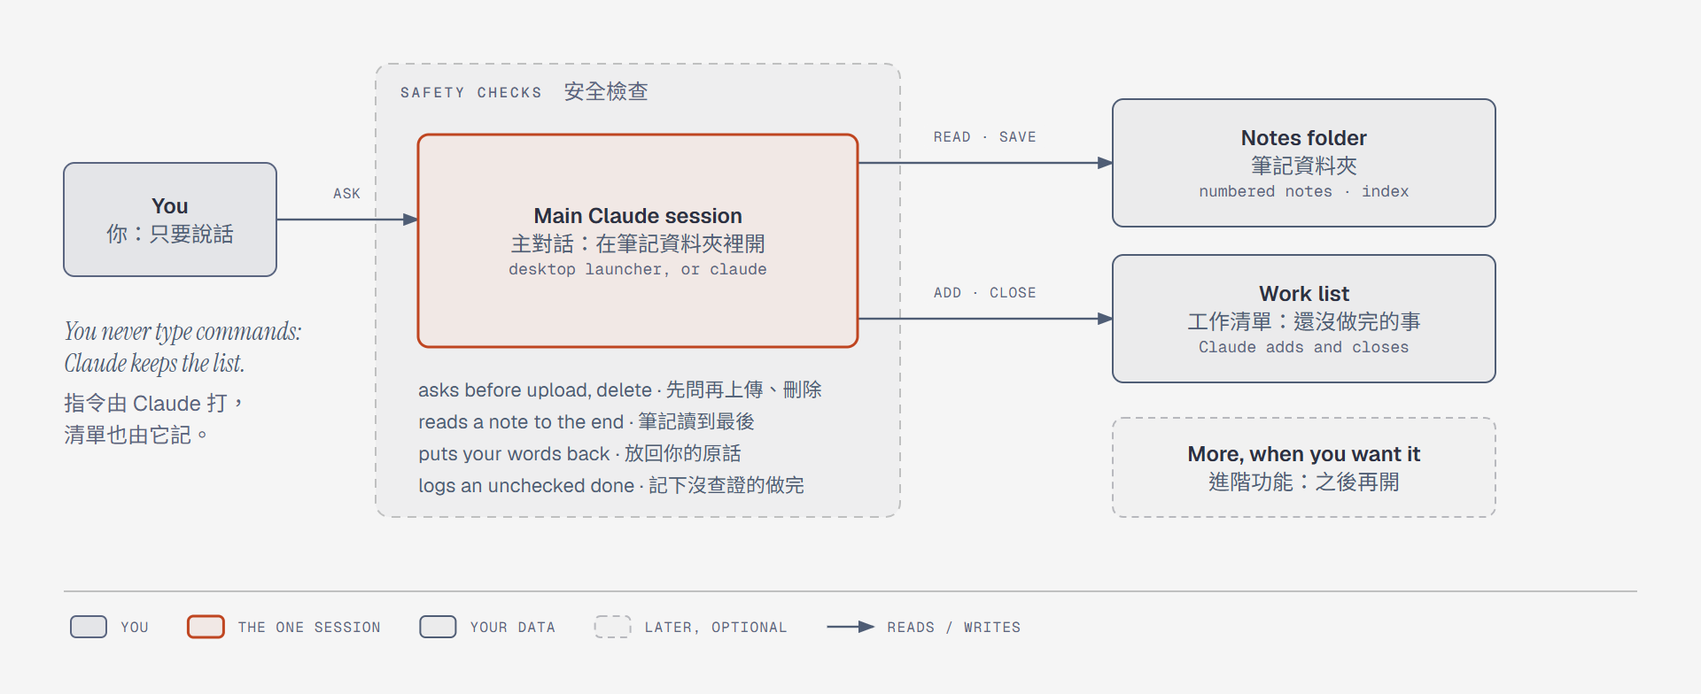
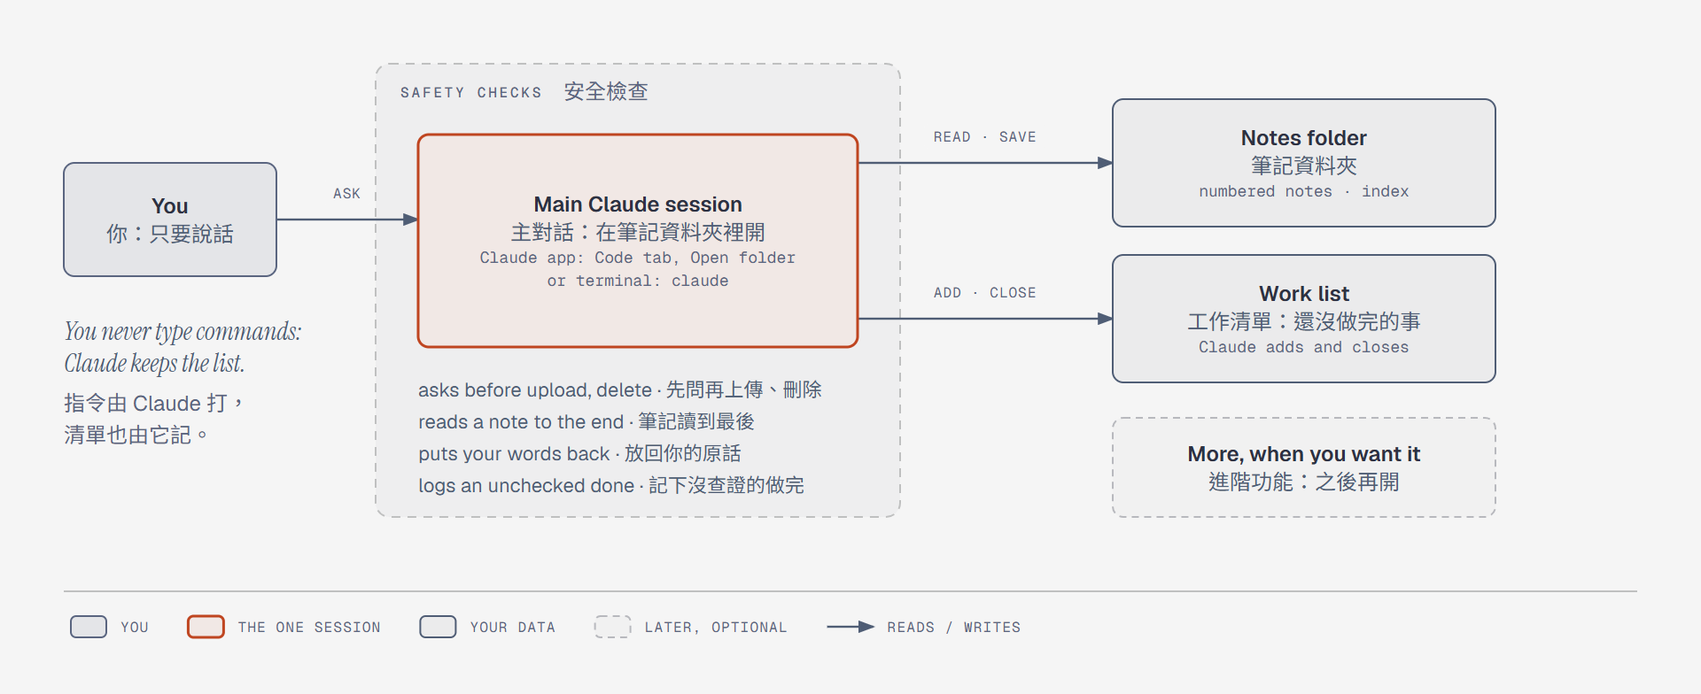
0.2.3: desktop App users open the notes folder in the App; shortcut only for terminal users

Changed region(s): [[0.2812, 0.2755, 0.4688, 0.4286]]

diff --git a/scripts/selftest.py b/scripts/selftest.py
@@ -585,6 +585,32 @@ def main():
             r = g2("commit", "-q", "-m", "broken link")
             check("template vault: a broken link is refused by pre-commit", r.returncode != 0 and "broken-wikilink" in (r.stdout + r.stderr), r.stdout + r.stderr)
 
+        # ---- how the user opens the notes folder: App users get steps, no shortcut file ----
+        for lang, setup, readme in (("en", KIT / "docs" / "SETUP.md", KIT / "README.md"),
+                                    ("zh", KIT / "docs" / "zh-TW" / "SETUP.md", KIT / "README.zh-TW.md")):
+            st = setup.read_text(encoding="utf-8")
+            a = st.find("### `SURFACE` = app")
+            b = st.find("### `SURFACE` = terminal")
+            app = st[a:b] if 0 <= a < b else ""
+            term = st[b:st.find("## Step 5b" if lang == "en" else "## 步驟 5b")] if b >= 0 else ""
+            check("setup %s: surface is detected from CLAUDE_CODE_ENTRYPOINT, user answer wins" % lang,
+                  "CLAUDE_CODE_ENTRYPOINT" in st and "claude-desktop" in st and "`cli`" in st)
+            check("setup %s: App branch gives the Code tab / Open folder steps and makes no shortcut file" % lang,
+                  "**Code**" in app and "**Open folder…**" in app and "**Local**" in app
+                  and not any(w in app for w in ("chmod", "@echo off", "#!/bin/sh")))
+            check("setup %s: terminal branch keeps the shortcut and the plain cd + claude way" % lang,
+                  "@echo off" in term and "#!/bin/sh" in term and "claude --continue" in term and "cd \"<VAULT>\"" in term)
+            check("setup %s: Step 6 and 7 do not assume a shortcut or claude -p for App users" % lang,
+                  "**+ New**" in st and st.count("**Open folder…**") >= 4)
+            rd = readme.read_text(encoding="utf-8")
+            mm = rd[rd.find("```mermaid"):rd.find("```", rd.find("```mermaid") + 10)]
+            check("readme %s: both ways in (App steps + terminal), diagram names both" % lang,
+                  "**Open folder…**" in rd and "**Code**" in rd and "`claude`" in rd and ("Open folder" if lang == "en" else "選筆記資料夾") in mm and "claude" in mm
+                  and "desktop launcher" not in mm)
+        svg = (KIT / "docs" / "diagrams" / "00-basic.svg").read_text(encoding="utf-8")
+        check("diagram 00-basic: names the App way and the terminal way, no desktop launcher",
+              "Open folder" in svg and "or terminal: claude" in svg and "desktop launcher" not in svg)
+
         # ---- launcher wrapper ----
         sh = shutil.which("sh")
         if sh:

diff --git a/docs/SETUP.md b/docs/SETUP.md
@@ -12,6 +12,7 @@ Words used below:
 - `KIT` - the folder that contains `.claude-plugin/plugin.json` with `"name": "second-brain-kit"`. Installed as a plugin it is `${CLAUDE_PLUGIN_ROOT}` (set inside plugin hooks and commands; in this session search the plugin cache under `~/.claude/plugins` for that file). Cloned by hand it is the clone folder.
 - `SBK_HOME` - `~/.claude/sbk` (the work list, logs, settings of the kit).
 - `VAULT` - the notes folder the user chooses (default `~/second-brain`).
+- `SURFACE` - how the user opens Claude: `app` (the Claude desktop app, its **Code** tab) or `terminal` (the `claude` command in a terminal window). Step 0.2 decides it; Steps 5, 6 and 7 differ by it.
 - Paths: use forward slashes or quoted paths on Windows. Python: `python3`, `python` or `py`, whichever runs Python 3.
 
 Rules while you work:
@@ -27,21 +28,22 @@ Rules while you work:
 
 The user may have pasted only the sentence from the README ("Install second-brain-kit from https://github.com/0Smallcat0/second-brain-kit and set me up by its docs/SETUP.md ..."). That sentence is their request to install, so do not ask again.
 1. Run `claude plugin marketplace add 0Smallcat0/second-brain-kit`, then `claude plugin install second-brain-kit@second-brain-kit` (the command-line twins of `/plugin marketplace add ...` and `/plugin install ...`).
-2. If the `claude` command cannot be run from here or the install fails: clone `https://github.com/0Smallcat0/second-brain-kit` into a new folder (for example `~/second-brain-kit-src`) and use it as `KIT`. Hooks then use Step 4's manual route.
+2. If the `claude` command cannot be run from here (an App user may not have it: the desktop app does not need it) or the install fails: clone `https://github.com/0Smallcat0/second-brain-kit` into a new folder (for example `~/second-brain-kit-src`) and use it as `KIT`. Hooks then use Step 4's manual route.
 3. Find `KIT` (see Words) and read this file from there before going on.
 
 **Check:** `KIT/.claude-plugin/plugin.json` exists and says `second-brain-kit`; `claude plugin list` shows second-brain-kit (clone route: write down that you used it).
 
 ## Step 0 - Check the computer, ask four things, suggest the parts
 
-1. Run `python --version` (or `python3` / `py`), `git --version`, `claude --version`. Python 3.8+ and git are needed.
+1. Run `python --version` (or `python3` / `py`) and `git --version`; Python 3.8+ and git are needed. Terminal users also need `claude --version` to work; App users do not (the desktop app has Claude Code built in, and has no `claude -p`).
    If one is missing, offer to install it ("OK if I install Python?") and after a yes do it: Windows `winget install -e --id Python.Python.3.12` / `winget install -e --id Git.Git`; macOS `xcode-select --install` (gives git and python3) or `brew install python git` if Homebrew exists; Linux the package manager. If it needs an administrator password or a click in an installer window, that part is **needs you**: tell the user exactly which window or command, then continue.
-2. Ask these four in **one message**, in plain words, and wait:
+2. Find `SURFACE` first. Read the environment variable `CLAUDE_CODE_ENTRYPOINT` (`echo $CLAUDE_CODE_ENTRYPOINT`; PowerShell `$env:CLAUDE_CODE_ENTRYPOINT`): `claude-desktop` or `claude-desktop-3p` -> `app`; `cli` -> `terminal`. These are the values Anthropic's monitoring page lists for how a session was launched; the variable itself is not documented, so treat it as a hint. Any other value (`claude-vscode`, `sdk-cli`, ...) or none: you cannot tell, so add to question 1 below "Do you open Claude through the Claude app (the Code tab) or in a terminal window?" and use the answer. The user's own answer always wins over the variable.
+   Then ask these four in **one message**, in plain words, and wait:
    1. "Where should your notes live? I suggest `~/second-brain` (say OK to accept)."
    2. "Which language should I use for notes and replies?"
    3. "Where do you get stuck most when using Claude? For example: several things at once get mixed up, you often forget deadlines, you keep having to explain the background again, or it's all fine? (If you also have an account for another AI such as ChatGPT or Gemini, mention it; if not, skip it - one Claude account is enough.)"
    4. "May I look at your Claude history on this computer to help decide? At install I only count how many project folders were used in the last two weeks and whether a conversation got so long it was summarised twice or more; after that, about once a week, I only look at conversations in your notes folder and count how often you asked me to remind you or said things got mixed up. It is counted on this computer only, nothing is uploaded or changed. 'No' is completely fine."
-   Do not ask anything else, here or later in the setup. The only things that do not count as extra questions: asking permission for a change on their system, and, when you suggest topic sessions in point 4, which things to split. No profile questions, no tool-by-tool list, no "Basic or Full?".
+   Do not ask anything else, here or later in the setup. The only things that do not count as extra questions: the app-or-terminal question when the variable did not tell you, asking permission for a change on their system, and, when you suggest topic sessions in point 4, which things to split. No profile questions, no tool-by-tool list, no "Basic or Full?".
 3. Create `SBK_HOME`. If `SBK_HOME/config.json` does not exist, copy `KIT/templates/config.json` there and fill `vault` (absolute path), `language`, `uses` (their words for question 3), `other_tools` (only tools they said they **have an account** for; empty if none), `read_history` (question 4: yes `true`, no `false`). If it exists (a repair or second run), keep every value it has and only add missing keys from the template.
 4. **Suggest the parts one by one; the user confirms.**
    - Question 4 was yes: run `python KIT/scripts/level_check.py --install`. It only counts, on this computer: project folders in `~/.claude/projects` used in the last 14 days, and whether one conversation was summarised (compacted) two or more times. It reads no conversation content and changes nothing. If the output says `"partial": true`, the count stopped after 30 seconds: use what it found.
@@ -147,9 +149,24 @@ Then run `python KIT/scripts/selftest.py`.
 **Check:** `selftest.py` prints `0 failed`; the modes printed in Step 0's check are the Basic set (or the user's earlier modes on a repair); this call prints a line containing `"permissionDecision": "ask"`:
 `echo '{"tool_name":"Bash","tool_input":{"command":"git push"},"cwd":"VAULT"}' | python KIT/hooks/vault_guard.py` (put the real path in place of `VAULT`).
 
-## Step 5 - A launcher for the main session
+## Step 5 - How the user opens the main session
 
-The main session is Claude Code started inside `VAULT`; there it reads `VAULT/CLAUDE.md`, which loads `AGENTS.md`. Make a double-click launcher named in the user's language (for example "Second brain"). It is a new file; if one with that name exists, ask before replacing it.
+The main session is Claude Code started inside `VAULT`; there it reads `VAULT/CLAUDE.md`, which loads `AGENTS.md` (the desktop app and the terminal read the same files). What you do depends on `SURFACE`; never assume a desktop shortcut.
+
+### `SURFACE` = app: no shortcut file
+
+Make no `.cmd`, `.command` or `.sh` file. Tell the user these steps in their language, with the app's own button names (from Anthropic's desktop quickstart and desktop pages), and put them in `VAULT/README.md` in Step 7:
+1. Open Claude (macOS: Applications folder; Windows: Start menu; Linux: application launcher) and click the **Code** tab at the top of the sidebar. If the tabs show only icons, hover over one to see its name.
+2. In the row under the prompt box, click the first control (the environment selector) and pick the top entry in the **Local** group. Then click the project folder control next to it, choose **Open folder…**, and pick `<VAULT>` (write the full path).
+3. Type to Claude as in a chat. Next time, click that session in the sidebar to carry on; **+ New** in the sidebar starts a fresh one, and you pick the folder again the same way. Clicking the session's title in the title bar renames it (for example "Second brain") so it is easy to find.
+- If a new session shows the environment above the prompt box instead of under it, the app has the earlier layout: choose the folder above the prompt box, or update the app (macOS **Claude > Check for Updates…**, Windows **Help > Check for Updates…**).
+- The docs describe no pin or "recent folders" feature, so do not promise one; the session list in the sidebar is the way back.
+
+**Check:** `VAULT/CLAUDE.md` contains `@AGENTS.md` and `VAULT/AGENTS.md` exists (those are what the app loads on opening the folder). Opening the folder in the app is **not verified** until the user does it in Step 7.
+
+### `SURFACE` = terminal: a shortcut, or two plain commands
+
+Make a double-click launcher named in the user's language (for example "Second brain"). It is a new file; if one with that name exists, ask before replacing it.
 - **Windows:** `<Desktop>\Second brain.cmd` (find the real Desktop with `powershell -NoProfile -Command "[Environment]::GetFolderPath('Desktop')"`; it may be inside OneDrive), saved as UTF-8 without BOM:
   ```
   @echo off
@@ -164,7 +181,7 @@ The main session is Claude Code started inside `VAULT`; there it reads `VAULT/CL
   exec claude
   ```
 - **Linux:** the same script as `~/Desktop/second-brain.sh` (or `~/second-brain.sh` if there is no Desktop folder), `chmod +x`.
-Also tell the user the plain way: open a terminal, `cd` into the notes folder, type `claude`; `claude --continue` goes back to the last conversation there.
+Also tell the user the plain way that needs no shortcut: open a terminal, `cd "<VAULT>"`, type `claude`; `claude --continue` goes back to the last conversation there.
 
 **Check:** the launcher file exists and contains the vault path; and Claude Code runs from that folder: Windows `cmd /c "cd /d "<VAULT>" && claude --version"`, macOS/Linux `sh -c 'cd "<VAULT>" && claude --version'` prints a version. Opening the launcher itself is **not verified** until the user does it in Step 7.
 
@@ -186,7 +203,7 @@ Technical checks passing does not prove the second brain works. Prove it with te
 4. Start a **new** session in the vault that knows nothing of this one:
    `cd "<VAULT>"` then
    `claude -p "Setup test. Follow this folder's AGENTS.md: find the open work-list item that mentions <token>, open the note it names, add the line 'resumed by a new session' at the end, close the item with evidence. Do not commit. Reply with the note path and the item id." --allowedTools "Read,Grep,Glob,Edit,Bash(python:*)"`
-   If `claude -p` cannot run here, ask the user to open the launcher from Step 5 in a second window, say "Continue the setup test item", and tell you when it has answered; keep this session open meanwhile.
+   If `claude -p` cannot run here (App users often have no `claude` command, and the app has no `-p`), ask the user to open a second session on the notes folder - app: **+ New** in the sidebar, then **Open folder…** `<VAULT>` as in Step 5; terminal: the launcher from Step 5, or `cd "<VAULT>"` then `claude` in a second window - say "Continue the setup test item", and tell you when it has answered; keep this session open meanwhile.
 5. Clean up: delete the test note; run `gen_jdex.py` and `vault_lint.py` again; the test item stays closed in the work list (closed items are not shown).
 
 **Check:** before the cleanup, the note ends with `resumed by a new session` and `ledger.py list --all` shows the test id as done with evidence written by the new session; after the cleanup, the note is gone, lint ends with `RESULT: PASS`, `git -C VAULT status --short` shows no test file, and `ledger.py list` prints exactly what it printed in 3. If the new session did not find the item, read what it answered, fix the cause (usually `VAULT/CLAUDE.md` or the ledger path in `AGENTS.md`) and run the test again.
@@ -195,7 +212,7 @@ Technical checks passing does not prove the second brain works. Prove it with te
 
 1. `python KIT/scripts/selftest.py` -> `0 failed`; `vault_lint.py` -> `RESULT: PASS`; `python SBK_HOME/bin/status.py` runs.
 2. Write the start-here page `VAULT/README.md` (the checker allows this name in the vault root) in the user's language, under 30 lines, for the user (not for Claude). It covers only how to start, how to make Claude remember, how to see what is open, and how to get something fixed:
-   - how to start: the launcher name and where it is; the terminal way (Full: new requests go to the entry launcher; open a topic launcher to let that topic work);
+   - how to start, by `SURFACE`: app - the Step 5 steps (Code tab, **Open folder…**, click the session in the sidebar next time); terminal - the launcher name and where it is, or `cd` into the notes folder and type `claude`. Full: new requests go to the entry session; open a topic session to let that topic work;
    - four example sentences: "Remember this: ...", "Find my notes about ...", "What is still open?", "Continue where we stopped on ...";
    - "If something gets in the way, tell Claude, for example: the done-check is too strict, make it quieter";
    - where things live: notes in this folder; the work list and logs in `~/.claude/sbk/`; local git keeps the history of changes but is **not** a backup of the disk: copy this folder to another disk or a cloud drive you trust from time to time;
@@ -205,7 +222,7 @@ Technical checks passing does not prove the second brain works. Prove it with te
    - one line per step with its status word (done / not enabled / n.a. / needs you / not verified);
    - what each safety check will do to them in practice;
    - what you did not do and why; what only they can do, as a numbered list (if anything);
-   - **the two-minute first use**: (1) close this window and double-click the launcher; (2) say "Remember this: I want to finish chapter 3 this week" - Claude saves it; (3) say "What is still open?" - Claude shows the work list; (4) say "Find what I said about chapter 3" - Claude finds the note. That is the whole daily routine.
+   - **the two-minute first use**: (1) app: in the Claude app, click the notes-folder session in the sidebar (or **+ New**, then **Open folder…** `<VAULT>`); terminal: close this window and double-click the launcher (or `cd` into the notes folder and type `claude`); (2) say "Remember this: I want to finish chapter 3 this week" - Claude saves it; (3) say "What is still open?" - Claude shows the work list; (4) say "Find what I said about chapter 3" - Claude finds the note. That is the whole daily routine.
 
 **Check:** `VAULT/README.md` exists and lint still passes; the final message starts with the what-was-installed line and has a status word for Steps 00 to 7 (including 5b).
 
@@ -215,7 +232,7 @@ Technical checks passing does not prove the second brain works. Prove it with te
 
 - **Repair or second run:** run the steps again in order. Each step keeps what exists: config values, notes, the work list (`ledger.md`), `task.md` files, `requests/`, `logs/` and, in Advanced, `routes.md`, `alarms.md` and `state/alarms.json` are never deleted or reset. Only missing pieces are added; changed kit files are shown to the user before they replace anything.
 - **Update:** update the plugin (`claude plugin update second-brain-kit@second-brain-kit`) or `git pull` the clone; then redo Step 1's copy and, for a clone install, Step 4's copy. Do not touch the user's notes or work list.
-- **Remove:** remove the block between the `sbk` markers in `~/.claude/CLAUDE.md`, uninstall the plugin (or remove the hook entries from `settings.json`), delete the launcher, and in Advanced the scheduler entry. The vault and `SBK_HOME` (work list, logs) are kept by default; ask before deleting either: they hold the user's data. End by telling the user what was kept and where.
+- **Remove:** remove the block between the `sbk` markers in `~/.claude/CLAUDE.md`, uninstall the plugin (or remove the hook entries from `settings.json`), delete the launcher if one was made (terminal users only), and in Advanced the scheduler entry. The vault and `SBK_HOME` (work list, logs) are kept by default; ask before deleting either: they hold the user's data. End by telling the user what was kept and where.
 
 ## Advanced
 

diff --git a/README.md b/README.md
@@ -16,10 +16,10 @@ Basic is the part that is always installed. Compared with Claude Code on its own
 
 - **Cost:** the kit is free, but Claude Code needs a paid plan (Pro, Max, Ultra, Team, Enterprise) or a Console account (a developer account with prepaid credits); the free claude.ai plan does not include Claude Code ([official page](https://code.claude.com/docs/en/setup)). No ChatGPT, Gemini or other AI account is needed.
 - **Install two things first:** [Claude Code](https://code.claude.com/docs/en/setup) (official; the Claude that works with files on your computer. If you would rather not use a terminal, the window where you type commands, get the [desktop app](https://code.claude.com/docs/en/desktop-quickstart)) and [Python 3](https://www.python.org/downloads/) (free; the kit's small tools run on it). The claude.ai chat in a web browser cannot do this.
-- **How to open Claude Code:** desktop app: open Claude, sign in, click the Code tab. Terminal: on Windows press Start, search "PowerShell", open it and type `claude`; on a Mac press Cmd+Space, search "Terminal", open it and type `claude`.
+- **How to open Claude Code:** desktop app: open Claude, sign in, click the **Code** tab. Terminal: on Windows press Start, search "PowerShell", open it and type `claude`; on a Mac press Cmd+Space, search "Terminal", open it and type `claude`. Either one works for this kit.
 - **How long:** about 15-30 minutes, mostly Claude working on its own; you answer 4 questions and say yes a few times. Add 5-10 minutes if the computer still needs Python or git (a tool that records changes; Claude offers to install it).
 - **What it touches:** only the folders and settings it creates itself; before it changes anything you already had (for example Claude's settings file), it asks you.
-- **Changing your mind:** tell Claude "Remove second-brain-kit". It removes the kit, the block it added to your settings and the desktop shortcut; your notes and work list stay, and it asks before deleting them.
+- **Changing your mind:** tell Claude "Remove second-brain-kit". It removes the kit, the block it added to your settings and the shortcut it made (terminal users only); your notes and work list stay, and it asks before deleting them.
 - **This is not an official plugin from Anthropic** (the company that makes Claude; a plugin is an add-on for Claude Code); users made it.
 
 ## Install: paste this one sentence into Claude Code
@@ -30,15 +30,20 @@ Install second-brain-kit from https://github.com/0Smallcat0/second-brain-kit and
 
 ## What happens next
 
-1. Claude asks you four things: where to keep your notes; which language to use; where you get stuck most when using Claude (for example several things at once get mixed up, you often forget deadlines, you keep having to explain the background again, or it's all fine); and whether it may look at your Claude history on this computer to help decide (it only counts a few numbers on this computer, uploads nothing, and "no" is fine).
+1. Claude asks you four things (plus one short question, only if it cannot tell: do you use the Claude app or a terminal?): where to keep your notes; which language to use; where you get stuck most when using Claude (for example several things at once get mixed up, you often forget deadlines, you keep having to explain the background again, or it's all fine); and whether it may look at your Claude history on this computer to help decide (it only counts a few numbers on this computer, uploads nothing, and "no" is fine).
 2. **Claude suggests each part and you confirm.** Basic is always installed; for one-conversation-per-subject, reminders, and splitting work with another AI you already have, it says in one line each whether to switch it on now and why. With no history, or if you say no, it goes by your answer alone; if your answer points to none of them, you get Basic. Say what to add or drop.
 3. It sets everything up and asks before changing any setting you already had.
 4. It runs a short check: a brand-new conversation has to find a test note and continue a test item. Then the test data is removed.
-5. It shows you how to start: a shortcut on your desktop, and a two-minute first try.
+5. It shows you how to start, for the way you open Claude: in the Claude app, the exact clicks that open your notes folder (no shortcut is made); in a terminal, a desktop shortcut or two short commands. Then a two-minute first try.
 
 ## How to use it after
 
-Double-click the desktop shortcut and type to Claude the way you would chat. For example:
+Open Claude on your notes folder, then type to Claude the way you would chat. There are two ways in; use the one you installed with:
+
+- **Claude app:** open Claude and click the **Code** tab (top of the sidebar). In the row under the prompt box, click the first control and pick the top entry under **Local**, then click the folder control next to it, choose **Open folder…** and pick your notes folder. Next time, click that session in the sidebar to carry on; **+ New** starts a fresh one in the same way.
+- **Terminal:** the shortcut Claude made for you, or without it: open the terminal, type `cd` and your notes folder's path, then `claude` (`claude --continue` returns to the last conversation).
+
+Then say, for example:
 
 - "Remember this: I want to finish chapter 3 this week."
 - "Find my notes about linear algebra."
@@ -51,7 +56,7 @@ Double-click the desktop shortcut and type to Claude the way you would chat. For
 flowchart LR
   You(["You"]) -->|talk| Main
   subgraph Checks["Safety checks run around it"]
-    Main["<b>Main Claude session</b><br/>opened in your notes folder"]
+    Main["<b>Main Claude session</b><br/>opened in your notes folder<br/>Claude app: Code tab, Open folder<br/>or terminal: claude"]
   end
   Main <-->|read, save| Notes[("<b>Notes folder</b><br/>your notes, numbered")]
   Main <-->|add, finish| Work[("<b>Work list</b><br/>what is still open")]

diff --git a/README.zh-TW.md b/README.zh-TW.md
@@ -16,10 +16,10 @@
 
 - **費用：** 這套工具免費，但 Claude Code 要付費方案（Pro、Max、Ultra、Team、Enterprise）或 Console 帳號（開發者用的預付額度帳號）；免費的 claude.ai 方案不能用 Claude Code（[官方說明](https://code.claude.com/docs/en/setup)）。不需要 ChatGPT、Gemini 等其他 AI 帳號。
 - **先裝兩個東西：** [Claude Code](https://code.claude.com/docs/en/setup)（官方；能直接處理你電腦上檔案的 Claude。不想碰終端機，也就是輸入文字指令的視窗，就裝[桌面版 App](https://code.claude.com/docs/en/desktop-quickstart)）、[Python 3](https://www.python.org/downloads/)（免費，這套工具裡的小程式要靠它跑）。瀏覽器裡的 claude.ai 聊天網頁做不到這些。
-- **怎麼打開 Claude Code：** 桌面版 App：打開 Claude、登入，點上方的 Code 分頁。終端機：Windows 按開始鍵、搜尋「PowerShell」打開後輸入 `claude`；Mac 按 ⌘＋空白鍵、搜尋「終端機」打開後輸入 `claude`。
+- **怎麼打開 Claude Code：** 桌面版 App：打開 Claude、登入，點側邊欄上方的 **Code** 分頁。終端機：Windows 按開始鍵、搜尋「PowerShell」打開後輸入 `claude`；Mac 按 ⌘＋空白鍵、搜尋「終端機」打開後輸入 `claude`。兩種都能用這套工具。
 - **要多久：** 大約 15～30 分鐘，大部分時間是 Claude 自己在做；你要回答 4 個問題、按幾次同意。電腦還沒有 Python 或 git（記錄修改的工具，Claude 會幫你裝）的話，再多 5～10 分鐘。
 - **會動到什麼：** 只動它自己建的資料夾和設定；要改到你原有的東西（例如 Claude 的設定檔）之前，會先問你。
-- **反悔：** 跟 Claude 說「移除 second-brain-kit」。它會拿掉這套工具、它加進設定的那一段和桌面捷徑；你的筆記和工作清單會留著，要刪會先問你。
+- **反悔：** 跟 Claude 說「移除 second-brain-kit」。它會拿掉這套工具、它加進設定的那一段和它做的捷徑（只有用終端機的人才有）；你的筆記和工作清單會留著，要刪會先問你。
 - **這不是 Anthropic（做 Claude 的公司）官方的外掛**（外掛＝Claude Code 的擴充套件），是使用者自己做的。
 
 ## 安裝：把這一句貼進 Claude Code
@@ -30,15 +30,20 @@
 
 ## 接下來會發生什麼
 
-1. Claude 問你四件事：筆記要放在哪裡；用哪種語言；你用 Claude 最常卡在哪（例如同時好幾件事會搞混、常忘記期限、要一直重講背景，還是都還好）；可不可以看這台電腦上你的 Claude 對話紀錄來幫忙判斷（只在這台電腦上數幾個數字、不上傳，不要也可以）。
+1. Claude 問你四件事（它看不出你用 App 還是終端機時，會多問一句這個）：筆記要放在哪裡；用哪種語言；你用 Claude 最常卡在哪（例如同時好幾件事會搞混、常忘記期限、要一直重講背景，還是都還好）；可不可以看這台電腦上你的 Claude 對話紀錄來幫忙判斷（只在這台電腦上數幾個數字、不上傳，不要也可以）。
 2. **Claude 逐項建議要裝哪些，你確認。** 基本款一定裝；「一件事開一個對話」、提醒、和你已經有的其他 AI 分工，每一項它都用一句話說建議開或先不開、為什麼。你沒有紀錄或不讓它看，它就只照你的回答；回答沒說到的就只裝基本款。想加或拿掉哪一項直接說。
 3. 它把東西設定好；要改你原有的設定之前，會先問你。
 4. 它做一次簡短的測試：開一個全新的對話，要能找到測試筆記、接著做測試項目。測完把測試資料清掉。
-5. 它教你怎麼開始：桌面上一個捷徑，加上兩分鐘的第一次試用。
+5. 它照你打開 Claude 的方式教你怎麼開始：用 Claude App 的話，是在 App 裡打開筆記資料夾的確切點法（不會做捷徑）；用終端機的話，是桌面捷徑或兩行指令。最後是兩分鐘的第一次試用。
 
 ## 裝好之後怎麼用
 
-點兩下桌面上的捷徑，用平常聊天的方式打字跟 Claude 說。例如：
+在筆記資料夾裡打開 Claude，再用平常聊天的方式打字跟它說。進去的路有兩條，照你安裝時用的那一種：
+
+- **Claude App：** 打開 Claude，點側邊欄上方的 **Code** 分頁。在輸入框下面那一排，點第一個控制項、選 **Local** 底下最上面那一項，再點旁邊的資料夾控制項，選 **Open folder…**，選你的筆記資料夾。下次要繼續，就在側邊欄點那個對話；**+ New** 用同樣的方式開新對話。
+- **終端機：** 用 Claude 幫你做的捷徑；沒有捷徑也行：打開終端機，輸入 `cd` 和筆記資料夾的路徑，再輸入 `claude`（`claude --continue` 會回到上一段對話）。
+
+然後說，例如：
 
 - 「記住：我這週要讀完第三章。」
 - 「找我之前記的線性代數筆記。」
@@ -51,7 +56,7 @@
 flowchart LR
   You(["你"]) -->|說話| Main
   subgraph Checks["外面一圈是安全檢查"]
-    Main["<b>Claude 主對話</b><br/>在你的筆記資料夾裡開"]
+    Main["<b>Claude 主對話</b><br/>在你的筆記資料夾裡開<br/>Claude App → Code，選筆記資料夾<br/>或終端機 claude"]
   end
   Main <-->|讀、存| Notes[("<b>筆記資料夾</b><br/>你的筆記，有編號")]
   Main <-->|記下、完成| Work[("<b>工作清單</b><br/>還沒做完的事")]

diff --git a/docs/zh-TW/進階功能.md b/docs/zh-TW/進階功能.md
@@ -210,7 +210,7 @@ flowchart LR
 2. 先開二到四個主題：安裝時用他說的那幾件事（SETUP 步驟 5b，不再問）；每週檢查後他說好的，用工作清單裡沒做完項目的 `[主題]` 標籤；其他情況才問他「哪兩件事要各有自己的對話？」。每個主題：取一個短的英數代號（`study`、`work`），`SBK_HOME/managers/<代號>/CLAUDE.md` ← `templates/manager-CLAUDE.md`（`{{manager}}`、`{{vault}}`、`{{scope}}` 填好，`{{scope}}` 用他的話寫一行），`SBK_HOME/managers/<代號>/task.md` ← `templates/task.md`（填 `{{topic}}`）。基本款的 `SBK_HOME/task.md` 還有沒做完的項目的話，問他屬於哪個主題，搬過去。
 3. `SBK_HOME/routes.md` ← `templates/routes.md`，每個代號一列，寫 5–10 個他真的會說的詞。
 4. `config.json` → `"modes": {"inbox_notice": "warn"}`。
-5. 照 SETUP 步驟 5 的做法，每個對話各做一個捷徑：入口 `cd "<SBK_HOME>/entry"` 再 `claude --add-dir "<VAULT>" -n entry`；主題 `cd "<SBK_HOME>/managers/<代號>"` 再 `claude --add-dir "<VAULT>" -n <代號>`。更新 `VAULT/README.md` 的「怎麼開始」：新的需求交給入口；要主題對話動工就打開它。基本款的捷徑可以留著，用來問筆記的小問題。
+5. 每個對話怎麼打開，照 `SURFACE`（SETUP 步驟 0.2）：終端機，照 SETUP 步驟 5 每個對話各做一個捷徑：入口 `cd "<SBK_HOME>/entry"` 再 `claude --add-dir "<VAULT>" -n entry`；主題 `cd "<SBK_HOME>/managers/<代號>"` 再 `claude --add-dir "<VAULT>" -n <代號>`。App，不做捷徑檔：**+ New**，**Open folder…** 選 `<SBK_HOME>/entry`（或 `<SBK_HOME>/managers/<代號>`），再點輸入框旁的 **+**、選 **Add folder**、加 `<VAULT>`（等於 `--add-dir`），並點標題把對話改名成 `entry` 或 `<代號>`。更新 `VAULT/README.md` 的「怎麼開始」：新的需求交給入口；要主題對話動工就打開它。基本款原本的開法（捷徑，或 App 裡筆記資料夾那個對話）可以留著，用來問筆記的小問題。
 6. 白話告訴使用者：「寫進主題收件匣不會讓任何東西開始跑。你打開那個主題對話，它才會開始做。」
 
 **檢查：** `python SBK_HOME/bin/send.py <代號> "setup check A1"` 印出 `<新編號> -> <代號>`（用它印出的編號）；`SBK_HOME/inbox/<代號>.md` 有那一行；`echo '{"cwd":"<SBK_HOME>/managers/<代號>","hook_event_name":"SessionStart"}' | python KIT/hooks/inbox_notice.py` 會印出它；`status.py` 列得出來。然後 `ledger.py drop <新編號> --evidence "A1 setup test item"`，把主題收件匣那一行勾成 `[x]`。

diff --git a/docs/ADVANCED.md b/docs/ADVANCED.md
@@ -210,7 +210,7 @@ Written for the Claude that switches a part on. Words (`KIT`, `SBK_HOME`, `VAULT
 2. Start with two to four topics: during setup, the things the user named (SETUP Step 5b, no question); after a weekly-check yes, the `[topic]` tags of the open work-list items; otherwise ask "Which two subjects should get their own conversation?". For each: a short ASCII id (`study`, `work`), `SBK_HOME/managers/<id>/CLAUDE.md` <- `templates/manager-CLAUDE.md` (fill `{{manager}}`, `{{vault}}`, `{{scope}}` with one line in the user's words), `SBK_HOME/managers/<id>/task.md` <- `templates/task.md` (fill `{{topic}}`). If `SBK_HOME/task.md` from Basic has open items, ask which topic it belongs to and move it there.
 3. `SBK_HOME/routes.md` <- `templates/routes.md`, one row per id with 5-10 words the user would really say.
 4. `config.json` -> `"modes": {"inbox_notice": "warn"}`.
-5. Launchers like SETUP Step 5, one per session: entry `cd "<SBK_HOME>/entry"` then `claude --add-dir "<VAULT>" -n entry`; topic `cd "<SBK_HOME>/managers/<id>"` then `claude --add-dir "<VAULT>" -n <id>`. Update the start section of `VAULT/README.md`: new requests go to the entry; open a topic session to let it work. The Basic launcher may stay for quick note questions.
+5. How to open each session, by `SURFACE` (SETUP Step 0.2). Terminal, a launcher like SETUP Step 5 per session: entry `cd "<SBK_HOME>/entry"` then `claude --add-dir "<VAULT>" -n entry`; topic `cd "<SBK_HOME>/managers/<id>"` then `claude --add-dir "<VAULT>" -n <id>`. App, no launcher file: **+ New**, **Open folder…** `<SBK_HOME>/entry` (or `<SBK_HOME>/managers/<id>`), then click **+** next to the prompt box, **Add folder**, `<VAULT>` (the app's equivalent of `--add-dir`), and rename the session to `entry` or `<id>` by clicking its title. Update the start section of `VAULT/README.md`: new requests go to the entry; open a topic session to let it work. The Basic way of opening (launcher, or the notes-folder session in the app) may stay for quick note questions.
 6. Tell the user plainly: "Writing to an inbox does not start anything. A topic session works on it when you open that session."
 
 **Check:** `python SBK_HOME/bin/send.py <id> "setup check A1"` prints `<new id> -> <id>` (use the printed id); `SBK_HOME/inbox/<id>.md` has the line; `echo '{"cwd":"<SBK_HOME>/managers/<id>","hook_event_name":"SessionStart"}' | python KIT/hooks/inbox_notice.py` prints it; `status.py` lists it. Then `ledger.py drop <new id> --evidence "A1 setup test item"` and tick the inbox line `[x]`.
